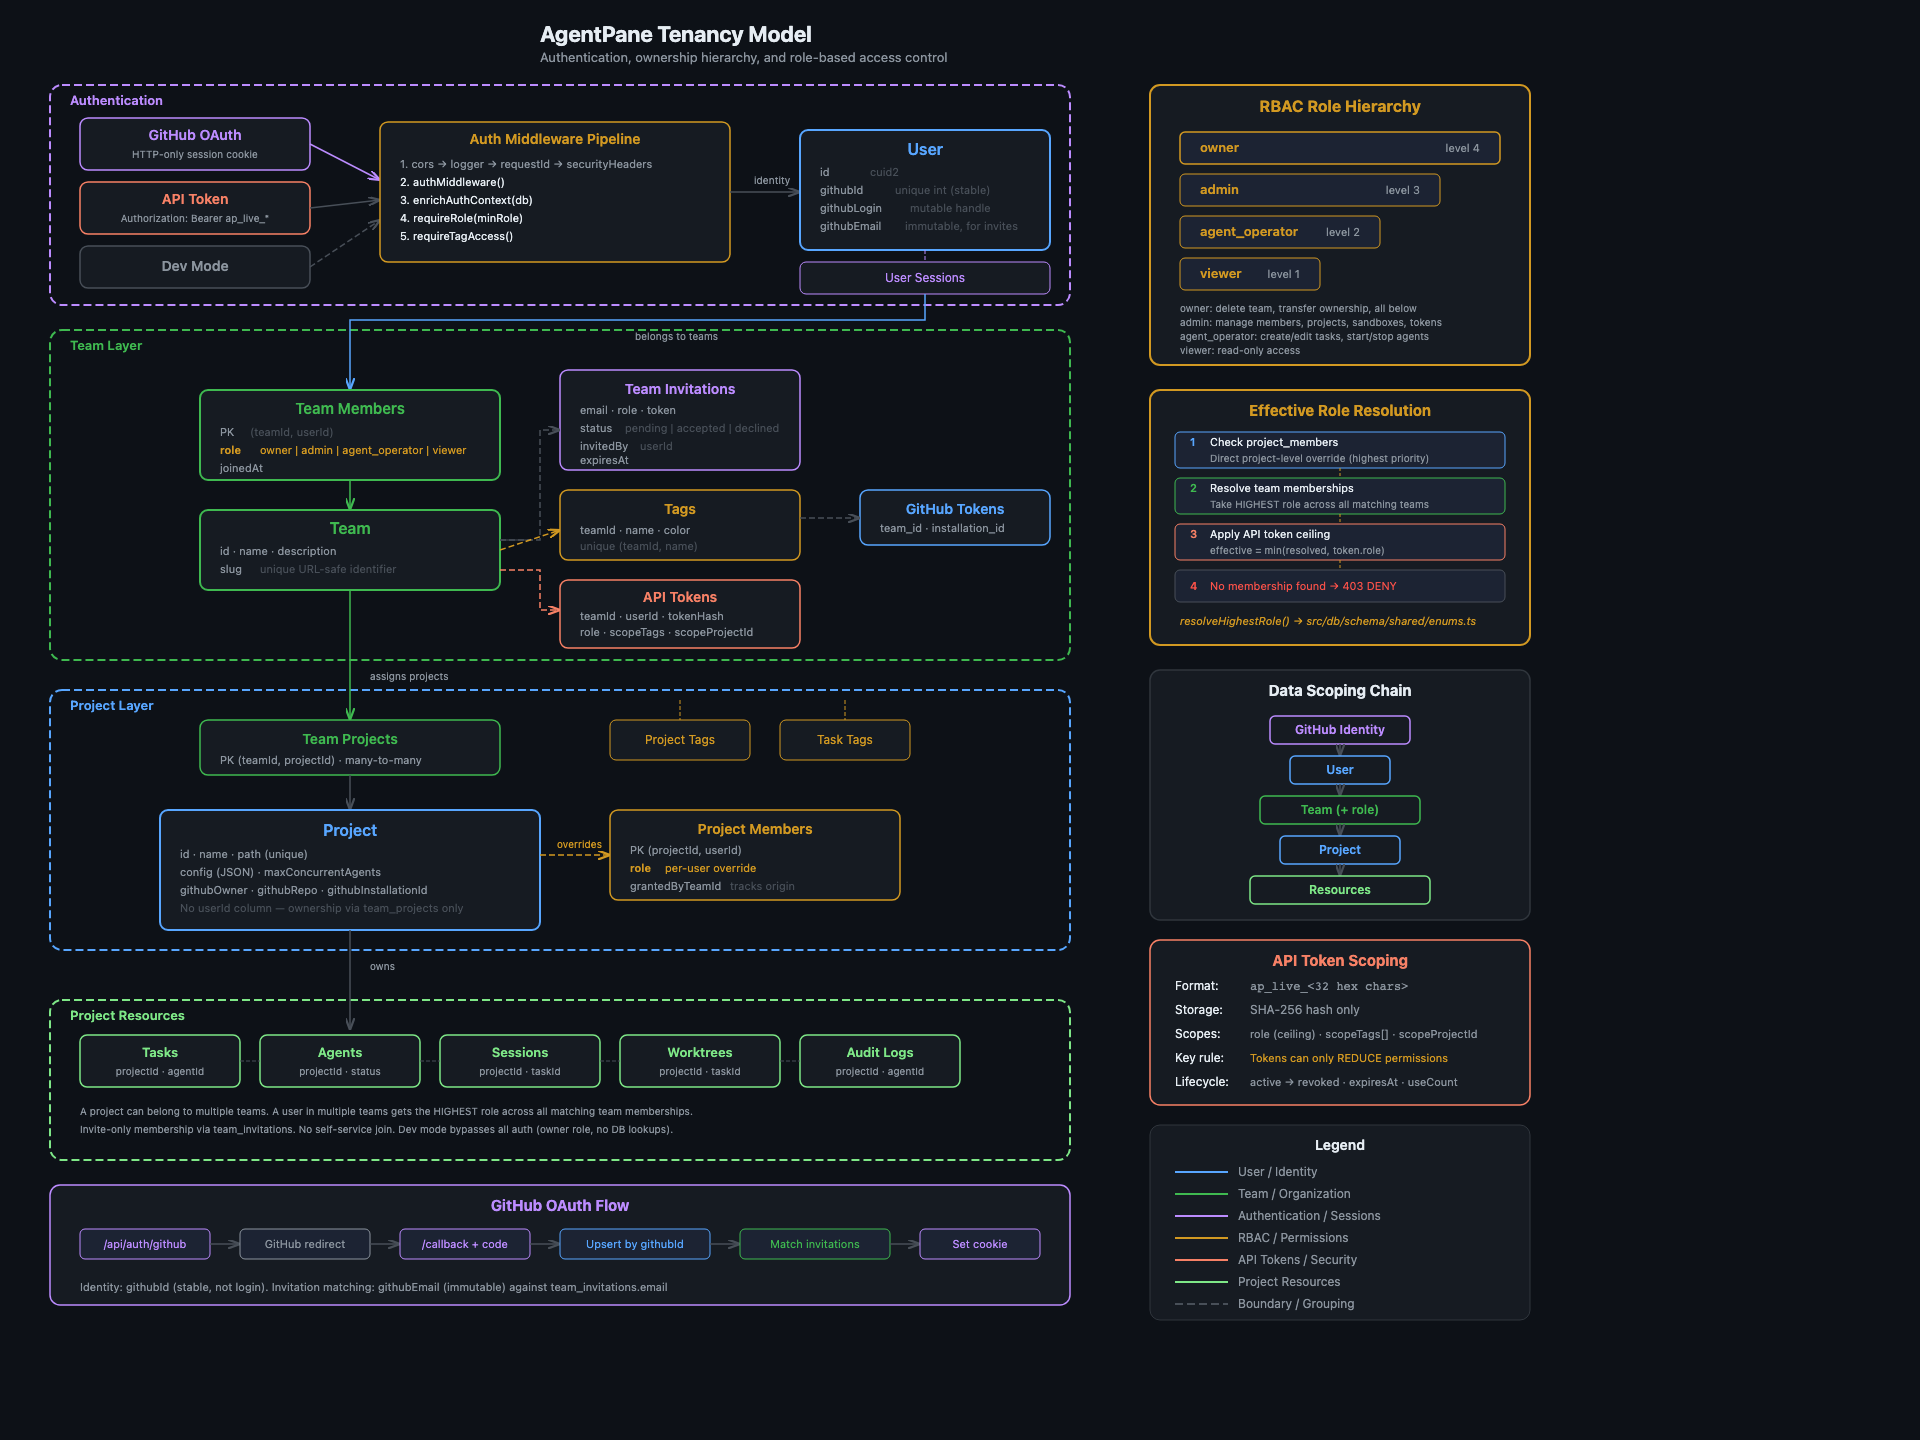
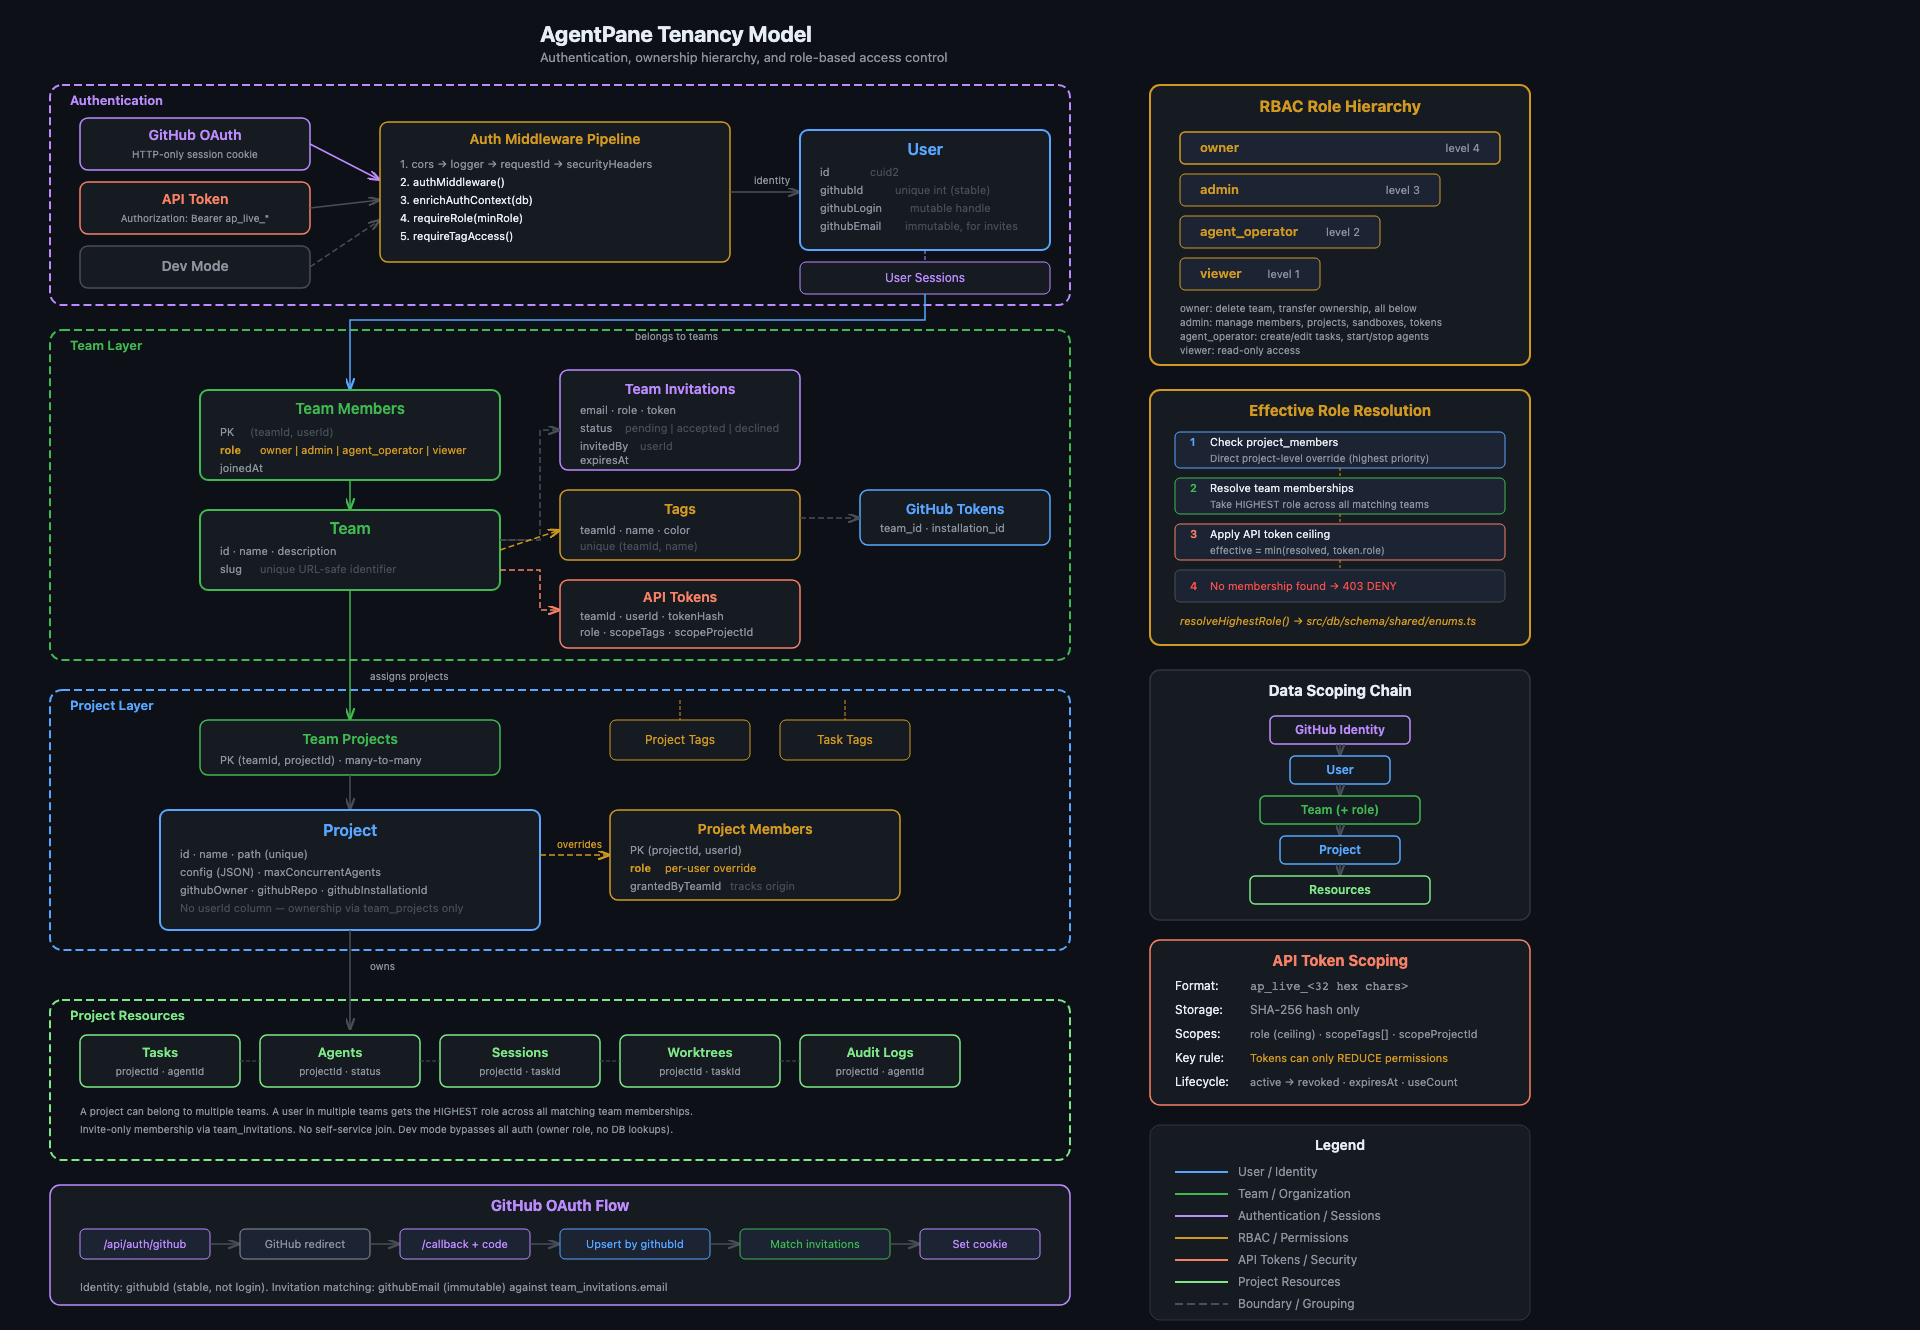
docs: trim whitespace from architecture and tenancy model diagrams
Reduce SVG viewBox height to match actual content bounds:
- _architecture-diagram: 1640 → 1250
- _tenancy-model: 1440 → 1330

Recapture PNGs with matching viewport sizes.

diff --git a/docs/_architecture-diagram.html b/docs/_architecture-diagram.html
@@ -10,7 +10,7 @@ svg { display: block; }
 </style>
 </head>
 <body>
-<svg xmlns="http://www.w3.org/2000/svg" viewBox="0 0 1920 1640" width="1920" height="1640">
+<svg xmlns="http://www.w3.org/2000/svg" viewBox="0 0 1920 1250" width="1920" height="1250">
 <defs>
   <marker id="arrow-gray" markerWidth="8" markerHeight="6" refX="8" refY="3" orient="auto">
     <path d="M0,0 L8,3 L0,6" fill="none" stroke="#484f58" stroke-width="1.5"/>

diff --git a/docs/_tenancy-model.html b/docs/_tenancy-model.html
@@ -10,7 +10,7 @@ svg { display: block; }
 </style>
 </head>
 <body>
-<svg xmlns="http://www.w3.org/2000/svg" viewBox="0 0 1920 1440" width="1920" height="1440">
+<svg xmlns="http://www.w3.org/2000/svg" viewBox="0 0 1920 1330" width="1920" height="1330">
 <defs>
   <marker id="arrow-gray" markerWidth="8" markerHeight="6" refX="8" refY="3" orient="auto">
     <path d="M0,0 L8,3 L0,6" fill="none" stroke="#484f58" stroke-width="1.5"/>
